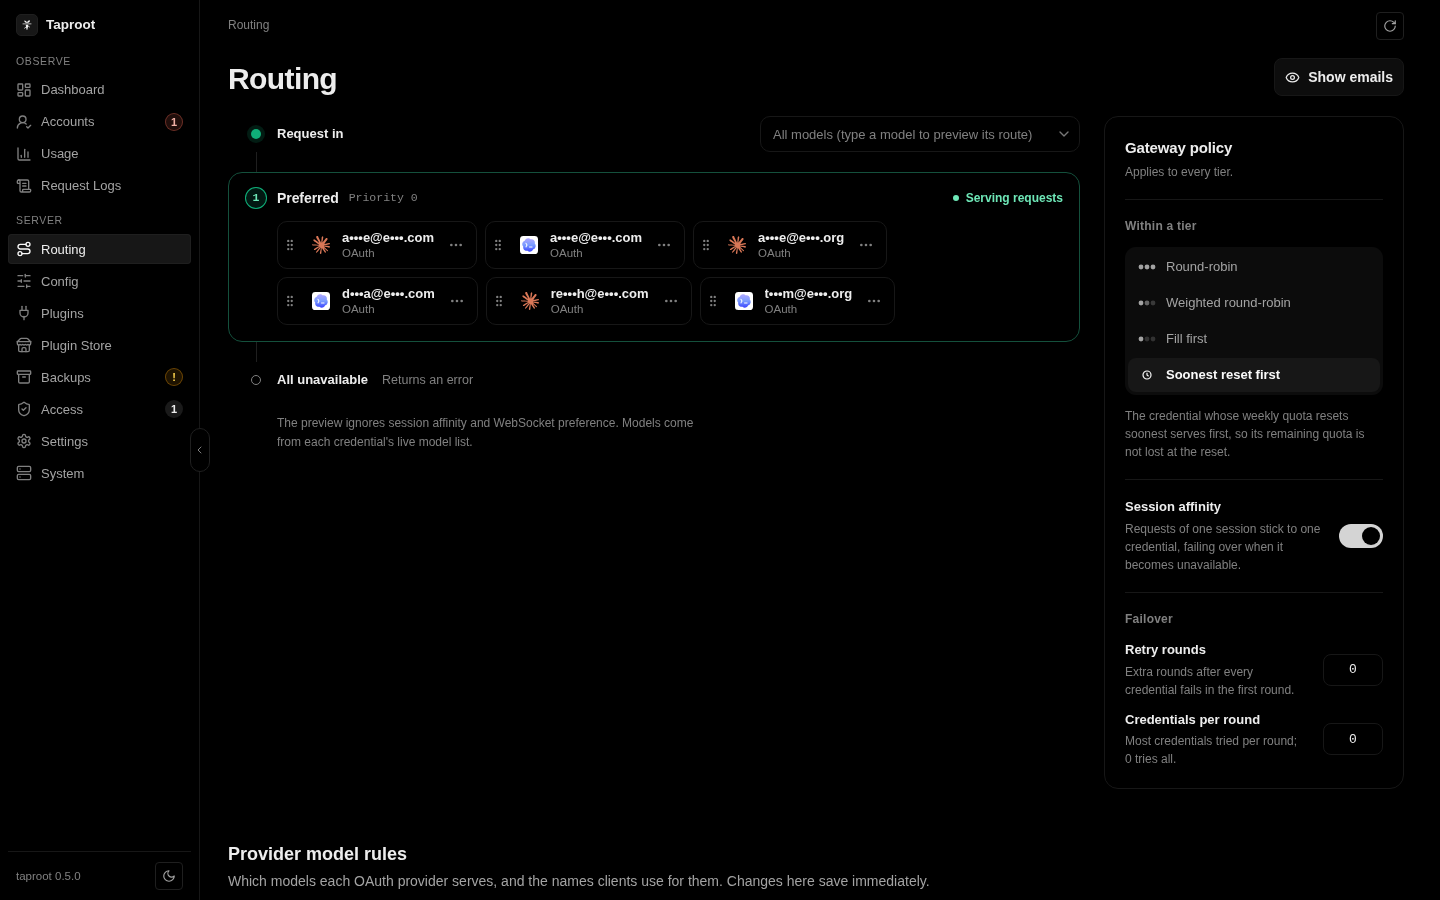
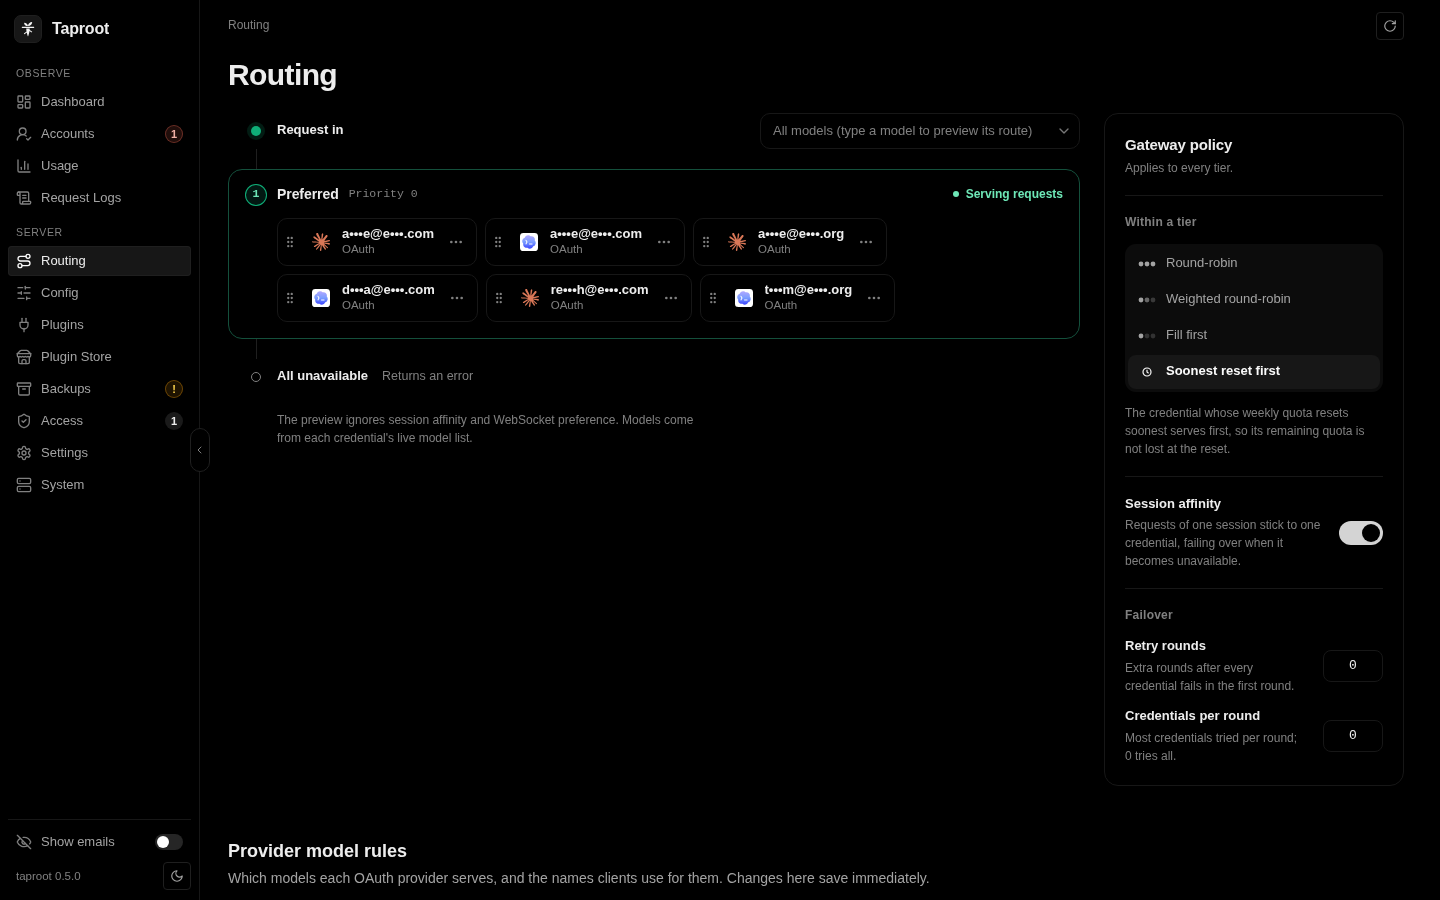
docs: point the install examples at 0.5, recapture the screenshots, and complete the 0.5.0 notes

diff --git a/internal/taproot/DESIGN.md b/internal/taproot/DESIGN.md
@@ -453,7 +453,7 @@ The Dashboard's right rail and verdict answer "is everything OK, and what needs 
 
 - Updates are manual by default: pull the new release and restart. Automatic updates are an opt-in host script, `scripts/taproot/taproot-update`, with the user units `examples/taproot/taproot-update.service` and `taproot-update.timer` and the settings file `examples/taproot/taproot-update.env`. Nothing in taproot's code checks for or applies updates.
 - **Why not `podman auto-update`.** The plan was `AutoUpdate=registry` with a `sigstoreSigned` policy in `policy.json`. That policy accepts a keyless Fulcio certificate only by `subjectEmail`, and a GitHub Actions certificate names a workflow URI with no email (`containers-policy.json(5)`; containers/image#2235, which would accept a URI, closed unmerged). Podman could therefore check only that an image is signed by someone, not that taproot's release workflow signed it. A cosign key pair would fix that but adds a long-lived secret to guard and rotate. The script checks the keyless identity with cosign instead.
-- **What it follows.** The script moves a local tag, `localhost/taproot:current`, so the quadlet it updates must run that tag with `Pull=never`. `examples/taproot/taproot.container` runs `ghcr.io/265866/taproot:0.4` with manual updates, the default; the opt-in steps in `docs/updating.md` point the quadlet's `Image=` at `current` and run the script once. With no local tag, that run verifies, pulls, and tags the release. `docs/updating.md` tells the operator not to tag the image by hand: step 3 below skips a release the local tag already has, so a hand-tagged image would never be verified. A quadlet left on the `ghcr.io` tag keeps running the old image after the script restarts it, so the image-ID check in step 7 fails and the run rolls back. It follows one tag of `ghcr.io/265866/taproot`, such as `0.2`: patch releases install themselves, and a new minor version, which may change `taproot.yaml` (see `docs/stability.md`), never does. A rollback stays within the minor version, which `docs/stability.md` says is safe on the same data.
+- **What it follows.** The script moves a local tag, `localhost/taproot:current`, so the quadlet it updates must run that tag with `Pull=never`. `examples/taproot/taproot.container` runs `ghcr.io/265866/taproot:0.5` with manual updates, the default; the opt-in steps in `docs/updating.md` point the quadlet's `Image=` at `current` and run the script once. With no local tag, that run verifies, pulls, and tags the release. `docs/updating.md` tells the operator not to tag the image by hand: step 3 below skips a release the local tag already has, so a hand-tagged image would never be verified. A quadlet left on the `ghcr.io` tag keeps running the old image after the script restarts it, so the image-ID check in step 7 fails and the run rolls back. It follows one tag of `ghcr.io/265866/taproot`, such as `0.2`: patch releases install themselves, and a new minor version, which may change `taproot.yaml` (see `docs/stability.md`), never does. A rollback stays within the minor version, which `docs/stability.md` says is safe on the same data.
 - **One run.**
   1. Take a per-unit `flock` in `$XDG_RUNTIME_DIR`, so a timer run and a manual run never overlap.
   2. Read the tag's digest with a `HEAD` on the registry's manifest endpoint and an anonymous pull token (curl only; no skopeo). For a multi-arch release that is the index digest, which the release signs. Network failures are retried for about two and a half minutes, because a `Persistent=true` run after boot can start before the network is up, and a user unit cannot order itself after the system's `network-online.target`.
@@ -567,6 +567,6 @@ The Dashboard's right rail and verdict answer "is everything OK, and what needs 
   - Release builds use no build cache, so nothing another workflow wrote can change what ships.
 - **Shutdown drain.** On SIGTERM or SIGINT, upstream's service stops and closes the HTTP server without draining it, and `main` then calls the shutdown function `Setup` returned (see "Upstream boundary"). It cancels the modules and waits for the request-log writer, which writes the records still in its 8192-entry queue, and for ingest's writer, whose final flush writes the usage events queued since its last flush (it flushes every second) and every queued client request, without the 2-second wait for late usage records. A process killed without a signal loses those queues; the request-log records already in an open segment are re-indexed on the next start. Requests still running when the server closes are cut, and their records may be lost.
 - **Mounts.** `config.yaml` lives in the mounted data directory, which is what restore's atomic rename needs. The host's tailscaled folder must be mounted at `/var/run/tailscale`, so the socket is at `/var/run/tailscale/tailscaled.sock` (see "Install examples"). After deploying, `GET /taproot/api/v1/me` from a tailnet device with Admin must report `via: "tailnet"` and `admin: true`, and the same request from a device without Admin must get 403 `not_admin`. If it reports loopback, the port forwarding is rewriting source addresses and the guard would admit everyone. From the server host itself, `curl http://100.64.0.1:8317/taproot/api/v1/me` (with the host's Tailscale address) must return 403 and `curl http://100.64.0.1:8317/v1/models` must not, which shows the server's own node is proxy-only. A `127.0.1.1:8317` publish, from the host, gets 403 on both unless the host's LAN address is in `access.addresses` (see "Security model").
-- **Install examples.** The README's Quick start and `docs/install.md` install the published image and follow one minor tag, `ghcr.io/265866/taproot:0.4`, which brings patch releases and never a minor version, which can rename `taproot.yaml` keys (see `docs/stability.md`). `examples/taproot/compose.yaml` and `examples/taproot/taproot.container` run that tag. The quadlet switches to the local tag `localhost/taproot:current` only when the operator turns on `scripts/taproot/taproot-update` (see "Automatic updates"), so a new user's install and manual update need no local tag. Neither file pulls an image the host already has: the default update is a manual pull and restart, because a restart cuts streams in flight. The NixOS example pins a release tag of the flake, because an unpinned `github:` input follows unreleased commits on `main`. The compose file mirrors the quadlet's read-only root, dropped capabilities, and Tailscale-only publish, adds the `/tmp` tmpfs that Podman gives a read-only container and Docker does not, and runs as the data directory's owner, because rootful Docker maps no user namespace.
+- **Install examples.** The README's Quick start and `docs/install.md` install the published image and follow one minor tag, `ghcr.io/265866/taproot:0.5`, which brings patch releases and never a minor version, which can rename `taproot.yaml` keys (see `docs/stability.md`). `examples/taproot/compose.yaml` and `examples/taproot/taproot.container` run that tag. The quadlet switches to the local tag `localhost/taproot:current` only when the operator turns on `scripts/taproot/taproot-update` (see "Automatic updates"), so a new user's install and manual update need no local tag. Neither file pulls an image the host already has: the default update is a manual pull and restart, because a restart cuts streams in flight. The NixOS example pins a release tag of the flake, because an unpinned `github:` input follows unreleased commits on `main`. The compose file mirrors the quadlet's read-only root, dropped capabilities, and Tailscale-only publish, adds the `/tmp` tmpfs that Podman gives a read-only container and Docker does not, and runs as the data directory's owner, because rootful Docker maps no user namespace.
   - Both files and the Quick start mount the host's folder `/var/run/tailscale` read-only, not the socket file. A bind mount of a file pins its inode, so after tailscaled restarts the container still sees the deleted socket and every whois fails until taproot restarts (measured with throwaway mounts, and the cause of an outage on a server). A folder mount sees the new socket only while the folder itself survives, and Debian's and Tailscale's own tailscaled units set `RuntimeDirectory=tailscale` without `RuntimeDirectoryPreserve`, so systemd deletes and recreates `/run/tailscale` on every stop and start (the server's `/run/tailscale` was born at the restart). `docs/install.md` therefore has the operator add a drop-in with `RuntimeDirectoryPreserve=yes`, which keeps the folder's inode across restarts (checked with probe units: the same inode with `yes`, a new one with `no`). Mounting `/run` would survive without it but would hand the container every other socket there. A connect to a socket needs no write access to the mount, so `:ro` costs nothing. The access monitor (see "tailscaled while running") reports the failure if either setting is missing.
   - `examples/taproot/taproot.service` runs the release tarball's binary outside a container. It copies the NixOS module's defenses (see "Nix"): `IPAddressDeny=localhost`, because every local process is a loopback caller, and a config that listens on the Tailscale address. `IPAddressDeny` also drops DNS to a loopback stub, and Debian and Ubuntu with systemd-resolved point `/etc/resolv.conf` at `127.0.0.53` with `hosts: files dns`, where Go's resolver and glibc both read that file. The unit bind-mounts resolved's upstream list, `/run/systemd/resolve/resolv.conf`, over `/etc/resolv.conf` when it exists (checked in a `systemd-run` transient unit on Debian 13: the lookup used the upstream server). Allowing `127.0.0.53` instead would let a local process that binds that source address reach taproot as loopback.

diff --git a/CHANGELOG.md b/CHANGELOG.md
@@ -12,8 +12,12 @@ Notable changes to taproot. Releases are tagged `taproot-vX.Y.Z`. From v0.2.0 on
 - `/taproot/api/v1` has new admin-only endpoints: `GET /requests/summary`, `GET /requests/recent`, `GET /status`, `GET /attention`, and `GET /pools`. No existing endpoint changed.
 - The sidebar shows badges on **Accounts**, **Access**, and **Backups**, and the tab title starts with a dot while something needs you. The Accounts badge used to count accounts. It now counts problems.
 - On a touch screen, every button and link on the Dashboard and the sidebar is at least 44 pixels tall, and Usage's and Accounts' range buttons grow to match. On a phone, and on a phone held sideways, text is a step larger.
-- Claude accounts show the Fable limit. Taproot now reads the limits list in Claude's usage response, so the Fable limit is recorded and charted with the 5-hour and weekly limits. A 5-hour reading from a session that has ended no longer shows as current. Alerts call it the Fable limit.
+- Claude accounts show the Fable limit. Taproot now reads the limits list in Claude's usage response, so the Fable limit is recorded and charted with the 5-hour and weekly limits. A 5-hour reading from a session that has ended no longer shows as current. An account whose plan has no 5-hour limit (its limits list has no session entry) shows no 5-hour limit at all. Alerts call it the Fable limit.
 - On **Accounts**, a Claude account's card and Manage sheet show the 5-hour, weekly, and Fable limits, with Fable's share of the weekly limit, and one button per kind of reset the account holds (full, Fable, 5-hour, weekly) in place of the single **Reset limits** button. Each asks first and shows what it will change. A Fable reset with no Fable use this week can't be spent.
+- One **Show emails** switch in the sidebar replaces the per-page toggles on Accounts, Usage, Request Logs, Routing, and Config. Every page follows it, Access included. It is off on every page load and is never saved in the browser.
+- On a phone, the Dashboard is a single column of cards: the verdict, a compact Needs you, Pools, then the window. Accounts and Usage put their options behind one **View** or **Options** button that opens a sheet, and on a desktop each page has one row of controls. Usage's Group by moved onto the cost chart.
+- On a touch screen, a chart's reading on Accounts, Usage, and the Dashboard goes away 3 seconds after the finger lifts, and at once when the page scrolls or a touch lands elsewhere. Mouse and keyboard use are unchanged.
+- The image and the release binaries are built with Go 1.26.11, for an HTTP/1 server crash in Go 1.26.10's `net/http` (GO-2026-6859). Building the request-log codec from source now ends with an `objcopy` step, because Go 1.26.11 refuses to link LLVM bitcode; CONTRIBUTING has the commands.
 - A successful **Send test** of the Discord alerts, or a new webhook, clears the record of failed deliveries, so the "Discord alerts are not being delivered" item leaves **Needs you**.
 
 ## [0.4.0](https://github.com/265866/taproot/compare/taproot-v0.3.0...taproot-v0.4.0) (2026-11-10)

diff --git a/docs/updating.md b/docs/updating.md
@@ -4,12 +4,12 @@ Updates are manual unless you turn on the automatic updater. A restart cuts the 
 
 ## Install a patch release
 
-A minor version's image tag, such as `0.4`, brings its patch releases and never a new minor version. Replace `0.4` below with the tag your setup runs.
+A minor version's image tag, such as `0.5`, brings its patch releases and never a new minor version. Replace `0.5` below with the tag your setup runs.
 
 | Setup | Update |
 | --- | --- |
-| Quick start container | `podman pull ghcr.io/265866/taproot:0.4`, then `podman rm -f taproot` and run the [Quick start](../README.md#quick-start) command again |
-| Podman quadlet | `podman pull ghcr.io/265866/taproot:0.4 && systemctl --user restart taproot` |
+| Quick start container | `podman pull ghcr.io/265866/taproot:0.5`, then `podman rm -f taproot` and run the [Quick start](../README.md#quick-start) command again |
+| Podman quadlet | `podman pull ghcr.io/265866/taproot:0.5 && systemctl --user restart taproot` |
 | Docker Compose | `docker compose pull && docker compose up -d` |
 | NixOS | Change the tag in `inputs.taproot.url` to the new release, then run `nix flake update taproot` and `nixos-rebuild switch` |
 | Plain binary | Download and check the new tarball as in [Verify a tarball](verifying-releases.md#verify-a-tarball), unpack it, point `/opt/taproot` at it, and run `sudo systemctl restart taproot` |

diff --git a/docs/install.md b/docs/install.md
@@ -61,7 +61,7 @@ loginctl enable-linger "$USER"
 journalctl --user -u taproot | grep 'setup code [A-Z0-9]'
 ```
 
-The quadlet runs the minor version's tag, such as `ghcr.io/265866/taproot:0.4`, and pulls it only when the host does not have it, so an update waits until you pull. `loginctl enable-linger` keeps the service running when you are not signed in. Run the quadlet as your own user, without `User=` or `UserNS=`. Podman maps the container's root to your user, which owns the files in the data directory.
+The quadlet runs the minor version's tag, such as `ghcr.io/265866/taproot:0.5`, and pulls it only when the host does not have it, so an update waits until you pull. `loginctl enable-linger` keeps the service running when you are not signed in. Run the quadlet as your own user, without `User=` or `UserNS=`. Podman maps the container's root to your user, which owns the files in the data directory.
 
 ## Docker Compose
 

diff --git a/README.md b/README.md
@@ -32,7 +32,7 @@ You need a Linux server on your tailnet with `tailscaled` and rootless Podman 5 
      -v "$HOME/taproot/data:/taproot/config" \
      -v /var/run/tailscale:/var/run/tailscale:ro \
      -p "$(tailscale ip -4):8317:8317" \
-     ghcr.io/265866/taproot:0.4
+     ghcr.io/265866/taproot:0.5
    ```
 
    So taproot keeps recognizing devices after tailscaled restarts or updates, apply the one-time host setting in [Keep tailscaled's folder for a container](docs/install.md#keep-tailscaleds-folder-for-a-container).
